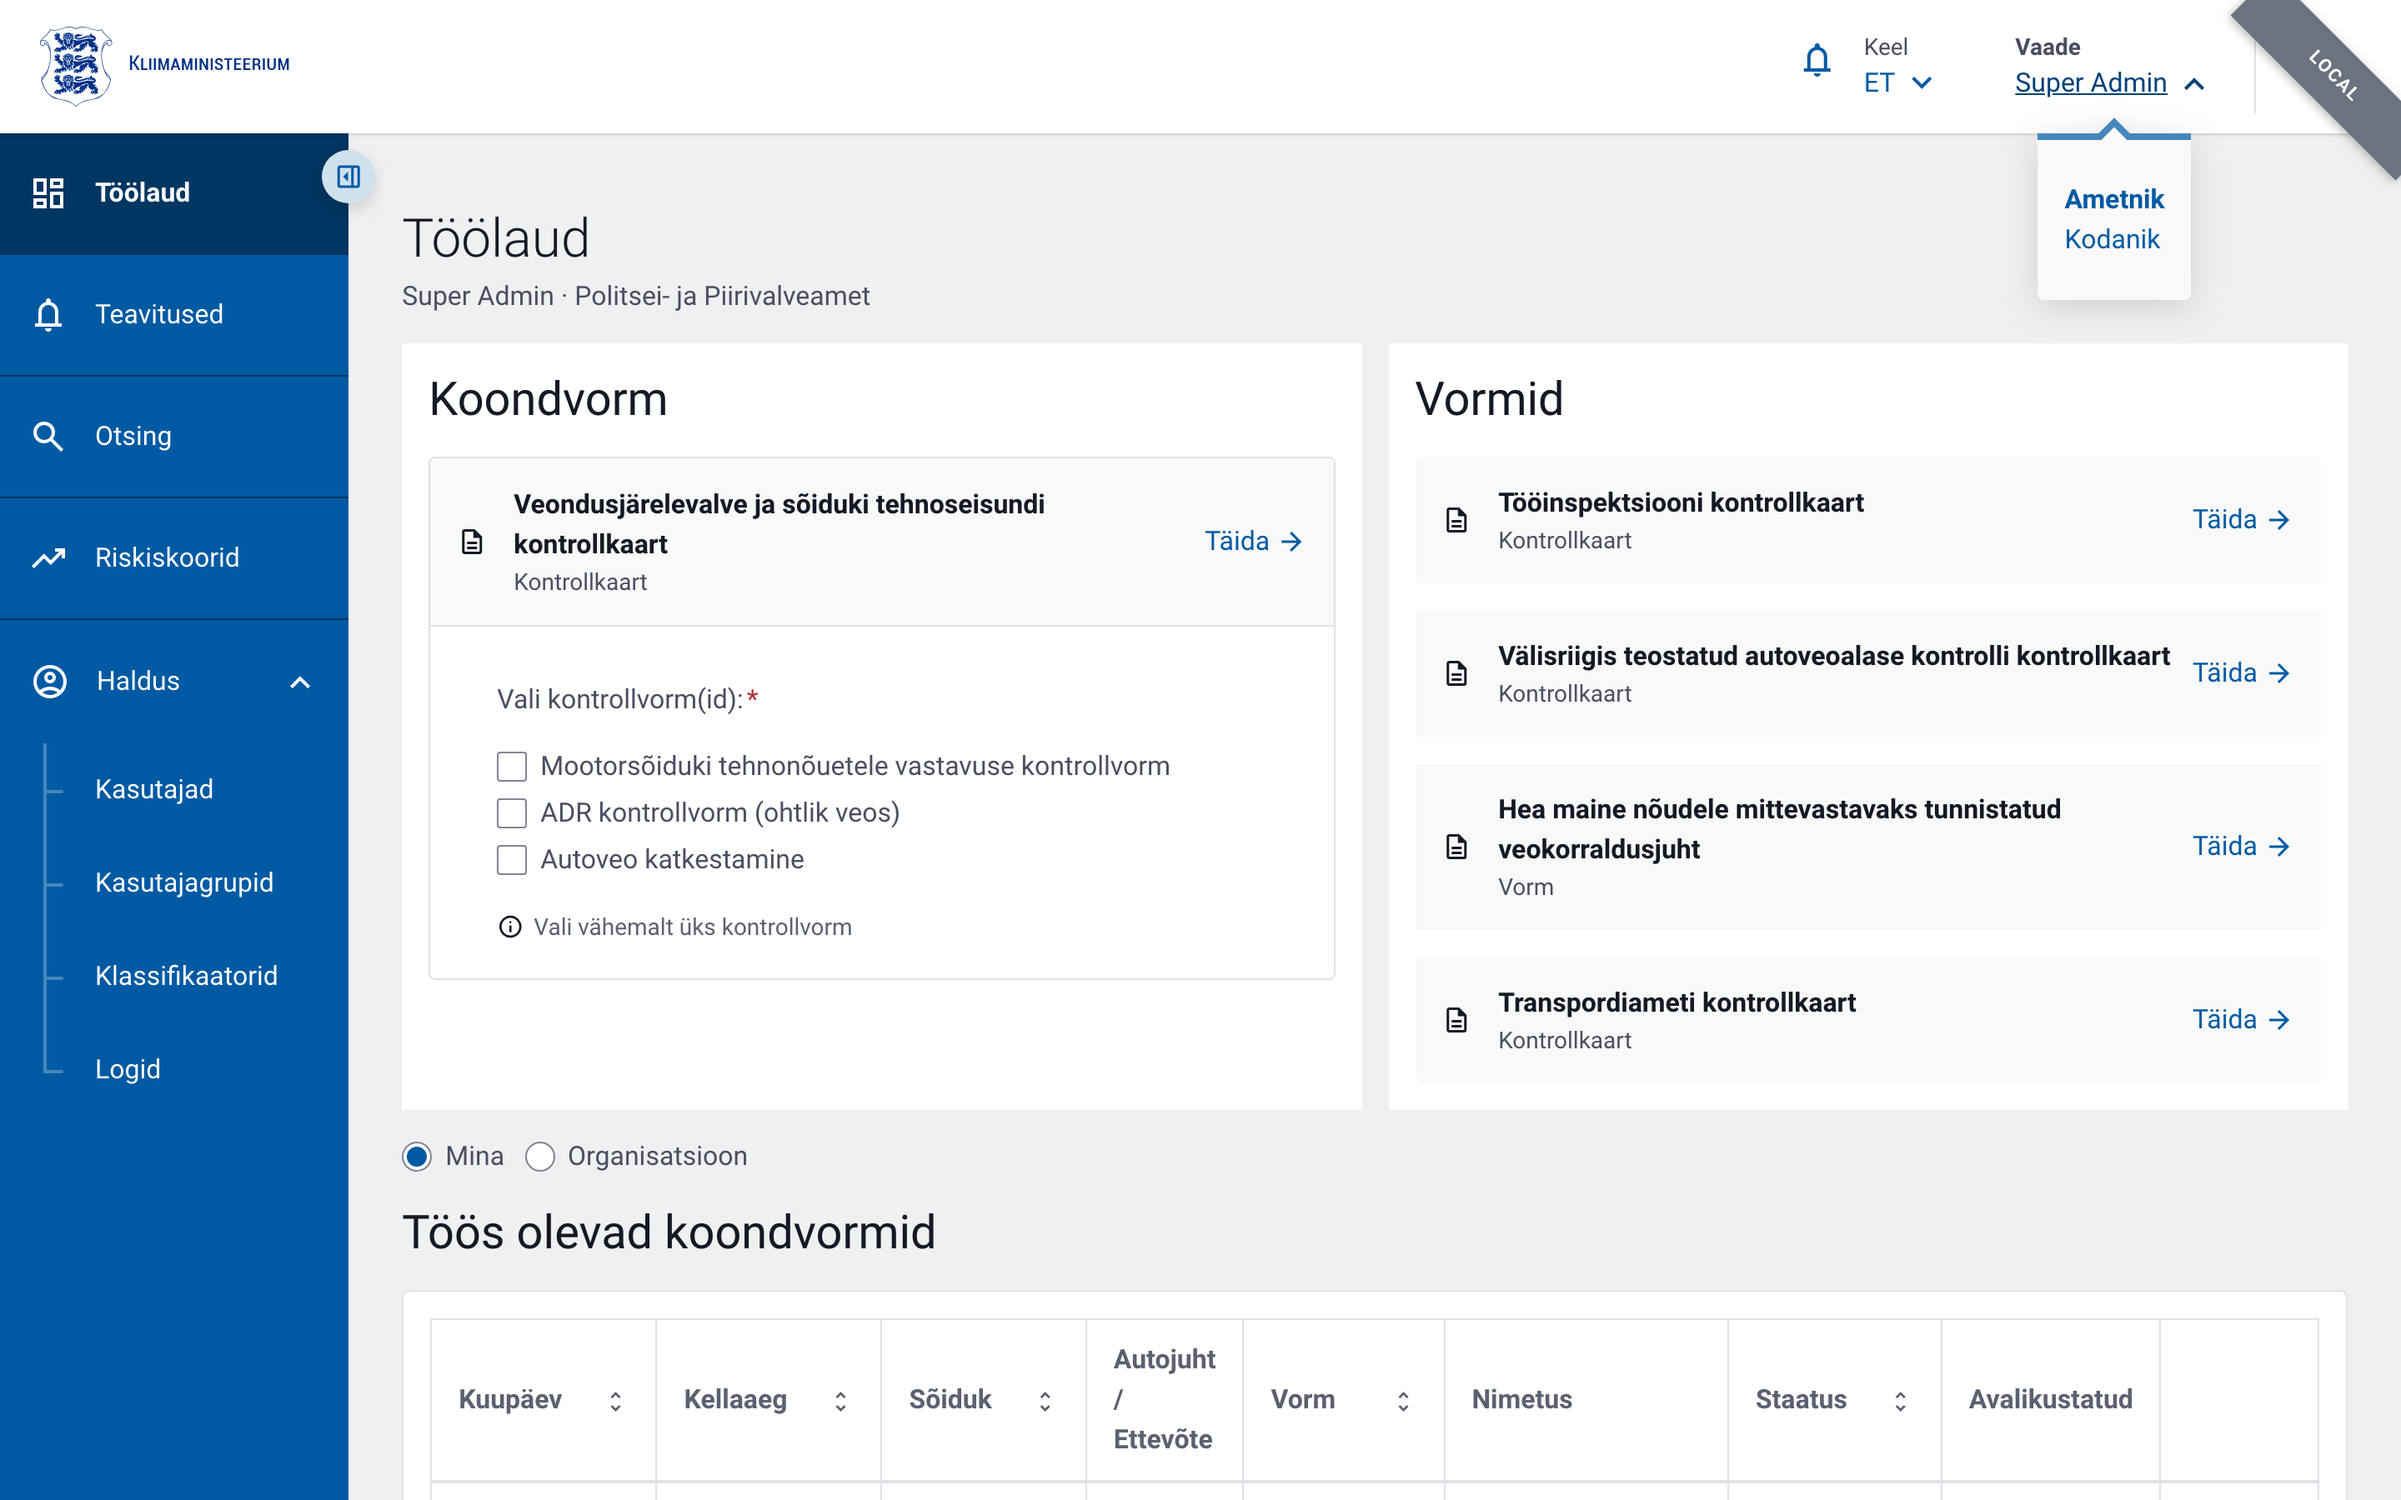
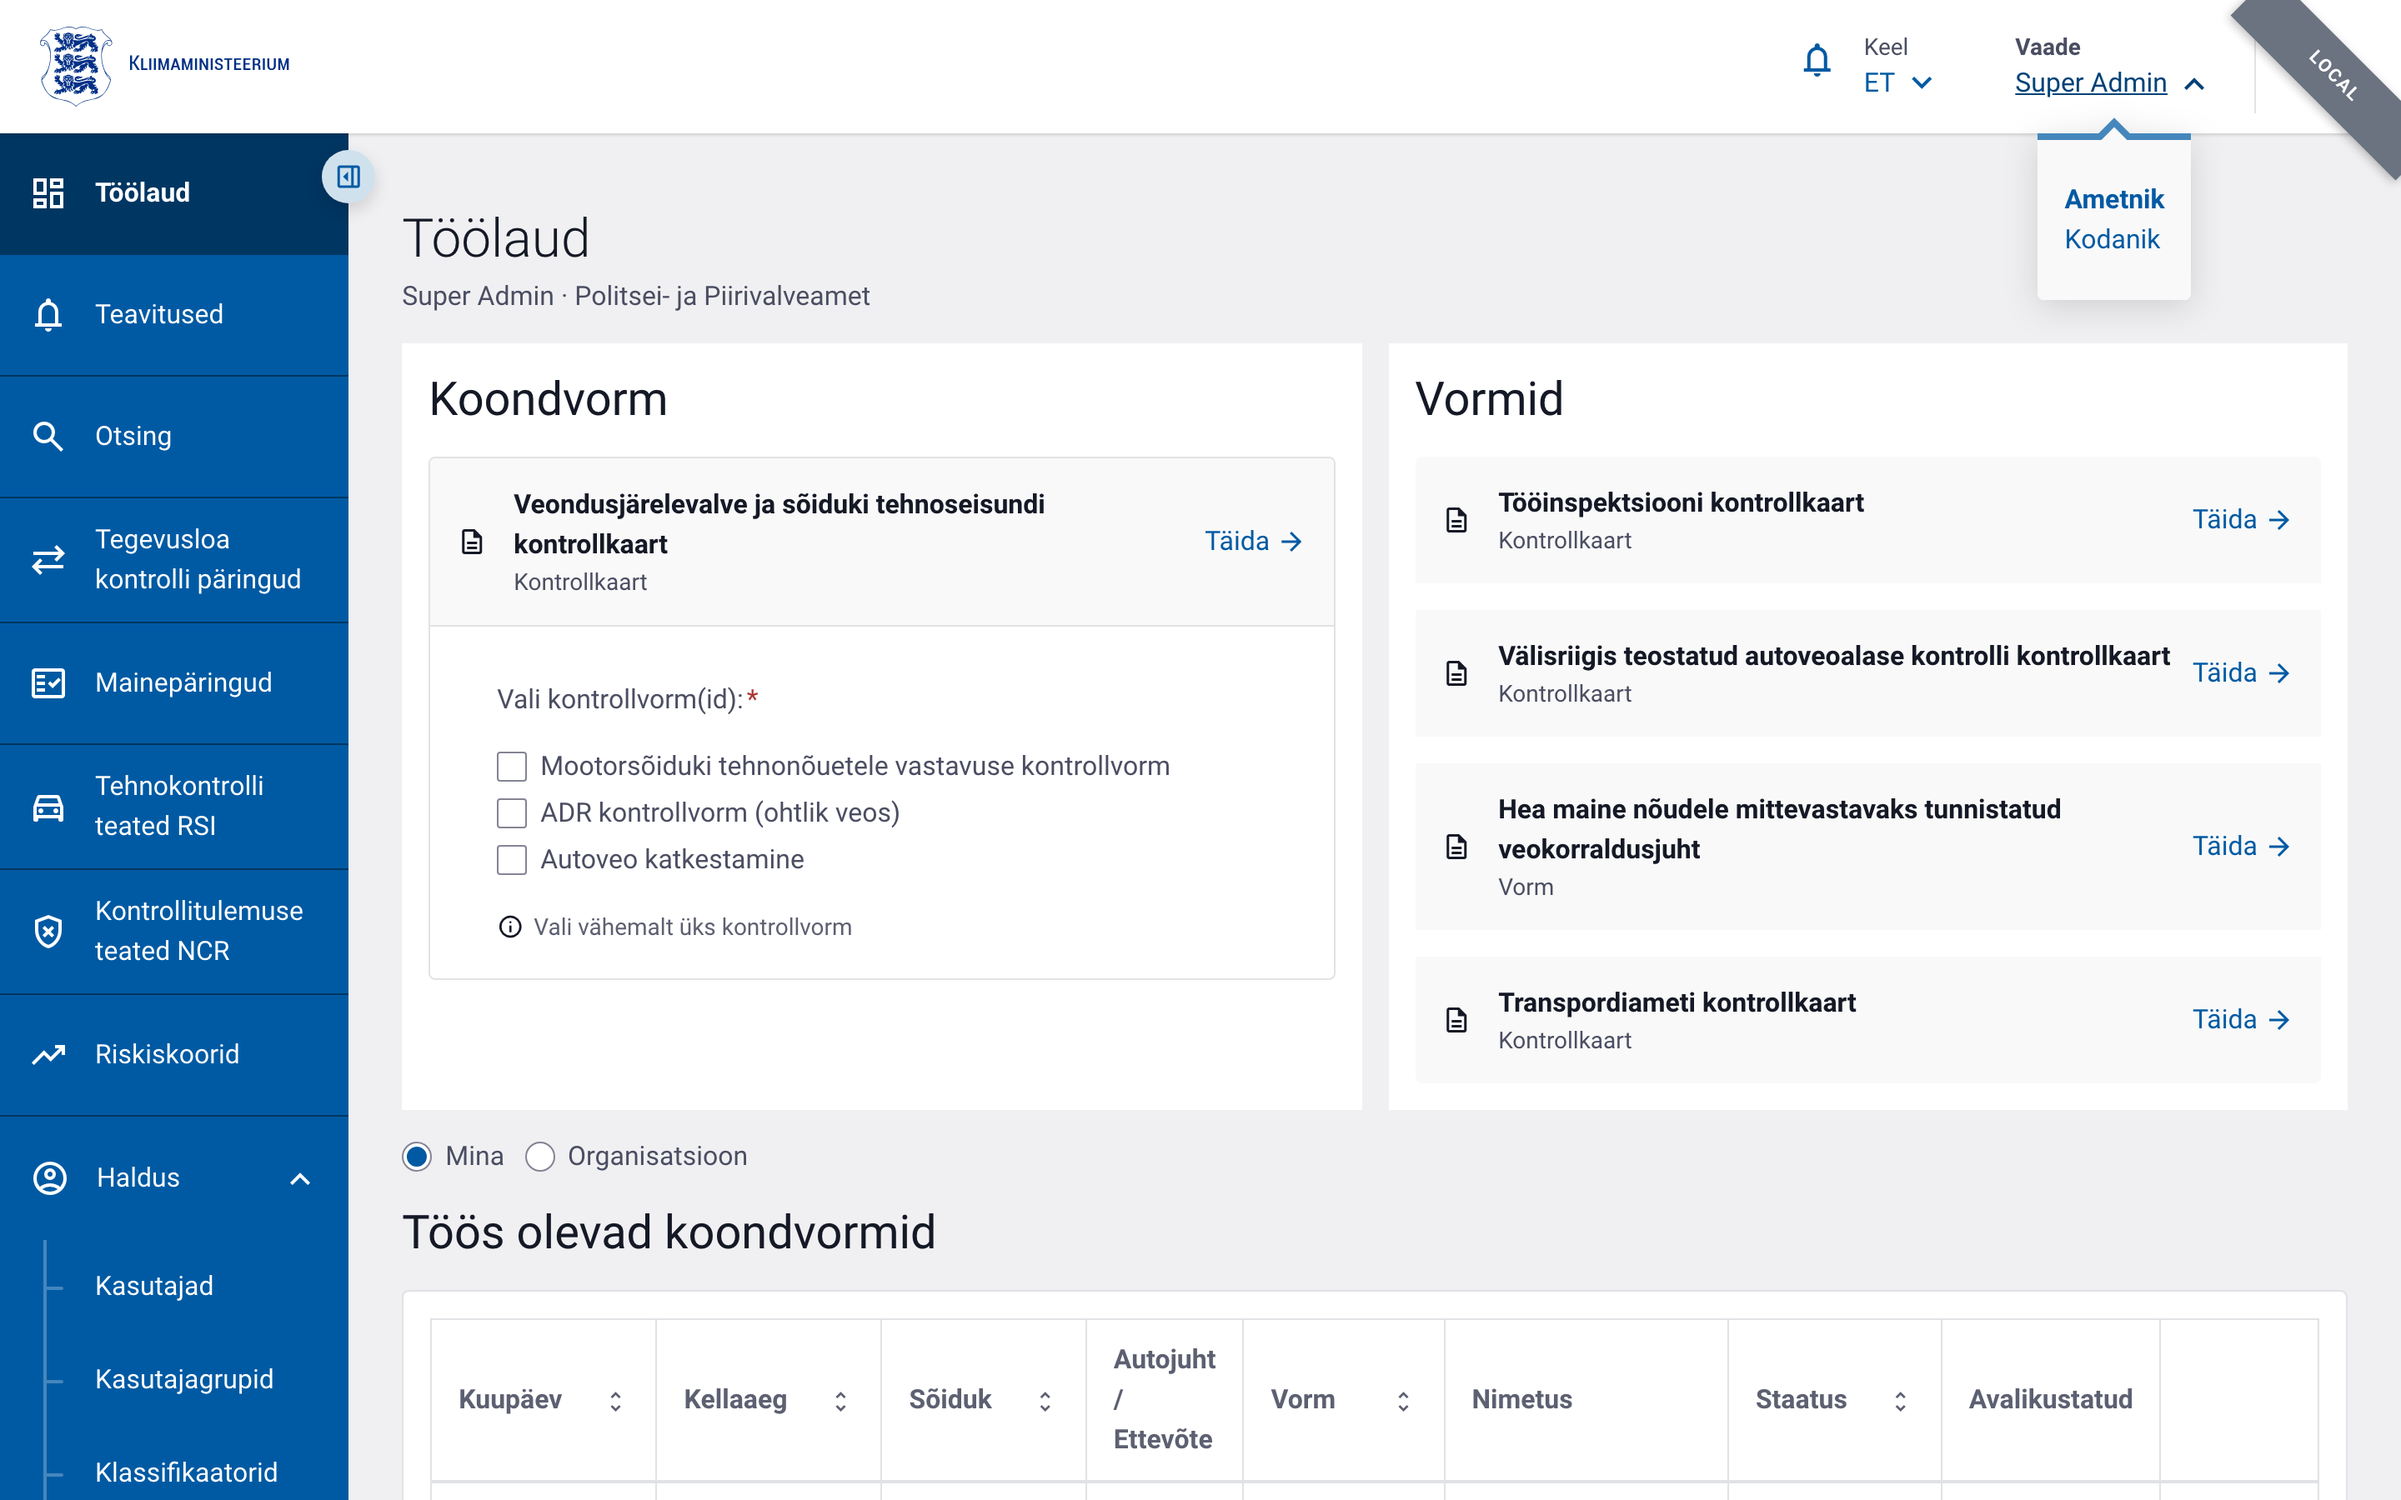
fix(menu): "Riskiskoorid" ülatasandi loendi lõppu (Halduse kohale)
- useSideNavProps: riskScores push viidud ERRU-punktide (CTUD/CGR/RSI/NCR)
  järele, vahetult "Haldus" grupi ette
- ptk 03 (menüü) ümber kirjutatud: ERRU-punktid on ülatasandil (mitte "Haldus"
  all, nagu varem valesti kirjas); "Haldus" alammenüüs on ainult Kasutajad,
  Kasutajagrupid, Klassifikaatorid, Logid
- ptk 03 + 04 ekraanipildid uuesti genereeritud (uus menüüjärjekord + täismenüü)

diff --git a/frontend/src/layout/useSideNavProps.tsx b/frontend/src/layout/useSideNavProps.tsx
@@ -84,16 +84,6 @@ export function useSideNavProps(): UseSideNavPropsResult {
       });
     }
 
-    // Riskiskoorid on eraldi ülatasandi menüüpunkt (mitte "Haldus" all).
-    if (hasPermission(PERMISSIONS.RISK_REPORT_LIST)) {
-      items.push({
-        children: t('nav.riskScores'),
-        icon: 'trending_up',
-        to: '/admin/risk-scores',
-        isActive: pathname.startsWith('/admin/risk-scores'),
-      });
-    }
-
     if (
       hasAnyPermission([
         PERMISSIONS.USER_LIST_ADMIN,
@@ -161,6 +151,17 @@ export function useSideNavProps(): UseSideNavPropsResult {
         icon: 'gpp_bad',
         to: '/erru/ncr',
         isActive: pathname.startsWith('/erru/ncr'),
+      });
+    }
+
+    // Riskiskoorid on eraldi ülatasandi menüüpunkt (mitte "Haldus" all), aga
+    // paikneb ülatasandi loendi lõpus, vahetult "Haldus" kohal.
+    if (hasPermission(PERMISSIONS.RISK_REPORT_LIST)) {
+      items.push({
+        children: t('nav.riskScores'),
+        icon: 'trending_up',
+        to: '/admin/risk-scores',
+        isActive: pathname.startsWith('/admin/risk-scores'),
       });
     }
 

diff --git a/docs/user-guide/03-menyy.md b/docs/user-guide/03-menyy.md
@@ -1,77 +1,82 @@
 # Menüü ja navigatsioon
 
-Põhimenüü asub vasakul küljel. Menüüpunktid sõltuvad Teie õigustest. Ülemisel
-tasemel on **Töölaud**, **Teavitused**, **Otsing**, **Riskiskoorid** ja
-**Haldus**.
+Põhimenüü asub vasakul küljel. Menüüpunktid sõltuvad Teie õigustest.
 
 ![Vasakmenüü](images/03-menyy/01-vasakmenyy.png)
 
-**Riskiskoorid** (õigus `risk_report.list`) avab veoettevõtete riskiskooride ja
--tasemete loendi — vt [Riskihindamine](16-riskihindamine.md).
+## Ülatasandi punktid
 
-Haldustegevused on koondatud **Haldus** rühma alla, mis avaneb sellele klõpsates.
-Alammenüüs on **Kasutajad**, **Kasutajagrupid**, **Klassifikaatorid**,
-**Tegevusloa kontrolli päringud**, **Mainepäringud**, **Tehnokontrolli teated
-RSI**, **Kontrollitulemuse teated NCR** ja **Logid**. Kuvatakse ainult need
-punktid, milleks Teil on õigus:
+Vasakmenüü ülatasandil on (õiguste olemasolul, ülevalt alla):
+
+| Punkt | Õigus | Selgitus |
+|---|---|---|
+| **Töölaud** | — | Avaleht kõigile autenditud kasutajatele |
+| **Teavitused** | — | Rakendusesisesed teavitused kõigile; „Saadetud kirjad" vahekaart `notification.list` õigusega |
+| **Otsing** | vormi lugemisõigus | Vormide koondotsing (vt [Vormide vaatamine ja ajalugu](15-vormide-vaatamine-ajalugu.md)) |
+| **Tegevusloa kontrolli päringud** (CTUD) | `ctud.read` | ERRU tegevusloa kontrolli päringud |
+| **Mainepäringud** (CGR) | `cgr.read` | ERRU hea maine päringud |
+| **Tehnokontrolli teated RSI** | `rsi.read` | ERRU RoadSideInspection teated |
+| **Kontrollitulemuse teated NCR** | `ncr.list` | ERRU NotifyCheckResult teated |
+| **Riskiskoorid** | `risk_report.list` | Ettevõtete riskiskooride ja -tasemete loend (vt [Riskihindamine](16-riskihindamine.md)) |
+| **Haldus** | — (avaneb, kui mõni alampunkt on nähtav) | Haldustegevuste rühm — vt allpool |
+
+Neli keskmist punkti (CTUD, CGR, RSI, NCR) on **ERRU** (Euroopa autoveo-ettevõtjate
+register) teadete ja päringute moodul.
+
+## „Haldus" alammenüü
+
+**Haldus** on rühm, mis avaneb sellele klõpsates. Alammenüüs on ainult
+süsteemihalduse punktid:
 
 ![Haldus alammenüü](images/03-menyy/02-haldus-alammenyy.png)
 
-Neli keskmist punkti on **ERRU** (Euroopa autoveo-ettevõtjate register) teated
-ja päringud: tegevusloa kontroll (CTUD), hea maine päring (CGR), tehnokontroll
-(RSI) ja kontrollitulemus (NCR).
-
-Menüüriba saab kokku voltida ülemises servas oleva noolenupuga; kokkuvolditult
-kuvatakse ainult ikoonid.
+| Alampunkt | Õigus | Selgitus |
+|---|---|---|
+| **Kasutajad** | `user.list.admin` või `user.list.local` | Kasutajate nimekiri ja haldus |
+| **Kasutajagrupid** | `user_group.list.admin` või `user_group.list.local` | Gruppide haldus |
+| **Klassifikaatorid** | `classifier.list` | Klassifikaatorite vaatamine ja muutmine |
+| **Logid** | `audit.read` | Tegevuste (auditi)logi |
 
 ## Menüü struktuur
 
 ```mermaid
 flowchart TD
-    A[Töölaud] --> T[Teavitused]
-    A --> S[Otsing]
-    A --> R[Riskiskoorid]
-    A --> B[Haldus]
+    A[Töölaud]
+    T[Teavitused]
+    S[Otsing]
+    G[Tegevusloa kontrolli päringud CTUD]
+    H[Mainepäringud CGR]
+    I[Tehnokontrolli teated RSI]
+    J[Kontrollitulemuse teated NCR]
+    R[Riskiskoorid]
+    B[Haldus]
     B --> C[Kasutajad]
     B --> D[Kasutajagrupid]
     B --> E[Klassifikaatorid]
-    B --> G[Tegevusloa kontrolli päringud CTUD]
-    B --> H[Mainepäringud CGR]
-    B --> I[Tehnokontrolli teated RSI]
-    B --> J[Kontrollitulemuse teated NCR]
     B --> F[Logid]
 ```
 
-Uusi kontrollakte alustatakse **töölaualt** (plokid „Koondvorm" ja „Vormid"),
-mitte eraldi menüüpunktist — vt peatükk [Töölaud](04-toolaud.md).
+## Kust kontrollakte alustada
 
-## Menüüpunktide õigused
+Uusi kontrollakte **ei alustata menüüst**, vaid **töölaualt** — plokkidest
+„Koondvorm" ja „Vormid" (vt peatükk [Töölaud](04-toolaud.md)). Vormide
+täitmisõigused on vormipõhised (nt `foreign_violation_form.write`,
+`compound_form.write`, `labour_inspection_form.write`,
+`vehicle_technical_form.write` / `trailer_technical_form.write`,
+`transport_interruption_form.write`, `adr_form.write`, `good_repute_form.write`,
+`drive_rest_form.write`).
 
-| Menüüpunkt | Õigus | Selgitus |
-|---|---|---|
-| Töölaud | — | Avaleht kõigile autenditud kasutajatele |
-| Teavitused | — | Rakendusesisesed teavitused kõigile; „Saadetud kirjad" vahekaart `notification.list` õigusega |
-| Otsing | — | Vormide koondotsing (vt [Vormide vaatamine ja ajalugu](15-vormide-vaatamine-ajalugu.md)) |
-| Riskiskoorid | `risk_report.list` | Ettevõtete riskiskooride ja -tasemete loend (vt [Riskihindamine](16-riskihindamine.md)) |
-| Kasutajad | `user.list.admin` või `user.list.local` | Kasutajate nimekiri ja haldus |
-| Kasutajagrupid | `user_group.list.admin` või `user_group.list.local` | Gruppide haldus |
-| Klassifikaatorid | `classifier.list` | Klassifikaatorite vaatamine ja muutmine |
-| Tegevusloa kontrolli päringud (CTUD) | ERRU-õigus | ERRU tegevusloa kontrolli päringud |
-| Mainepäringud (CGR) | ERRU-õigus | ERRU hea maine päringud |
-| Tehnokontrolli teated RSI | ERRU-õigus | RoadSideInspection teated |
-| Kontrollitulemuse teated NCR | ERRU-õigus | NotifyCheckResult teated |
-| Logid | `audit.read` | Tegevuste (auditi)logi |
+## Menüü kokkuvoltimine
 
-Kontrollakte alustatakse töölaualt, mitte menüüst; nende täitmisõigused on
-vormipõhised (nt `foreign_violation_form.write`, `compound_form.write`,
-`labour_inspection_form.write`, `vehicle_technical_form.write` /
-`trailer_technical_form.write`, `transport_interruption_form.write`,
-`adr_form.write`, `good_repute_form.write`, `drive_rest_form.write`).
+Menüüriba saab kokku voltida ülemises servas oleva noolenupuga; kokkuvolditult
+kuvatakse ainult ikoonid.
 
 ## Menüü käitumine mobiilis
 
-Mobiilseadmes on külgmenüü vaikimisi peidus. Selle avamiseks vajutage ülemisel ribal **Menüü** nuppu. Menüü sulgub automaatselt, kui valite uue lehekülje.
+Mobiilseadmes on külgmenüü vaikimisi peidus. Selle avamiseks vajutage ülemisel
+ribal **Menüü** nuppu. Menüü sulgub automaatselt, kui valite uue lehekülje.
 
 ## Aktiivne punkt
 
-Aktiivne menüüpunkt on esile tõstetud. Kui olete haldusala all, jääb **Haldus** grupp lahti.
+Aktiivne menüüpunkt on esile tõstetud. Kui olete haldusala lehel, jääb **Haldus**
+rühm lahti.

diff --git a/docs/muudatused.md b/docs/muudatused.md
@@ -4,6 +4,14 @@
 
 ---
 
+## 2026-09 — Menüü: „Riskiskoorid" järjekord
+
+- Menüüpunkt **„Riskiskoorid"** paikneb nüüd vasakmenüü ülatasandi loendi
+  **lõpus, vahetult „Haldus" kohal** (varem kohe „Otsingu" järel, ERRU-punktide
+  ees).
+
+---
+
 ## 2026-09 — NCR (kontrollitulemuse teated): parandused
 
 - Lehe ja teate pealkiri: **„Kontrollitulemuse teated NCR"** (varem „NCR teated").
